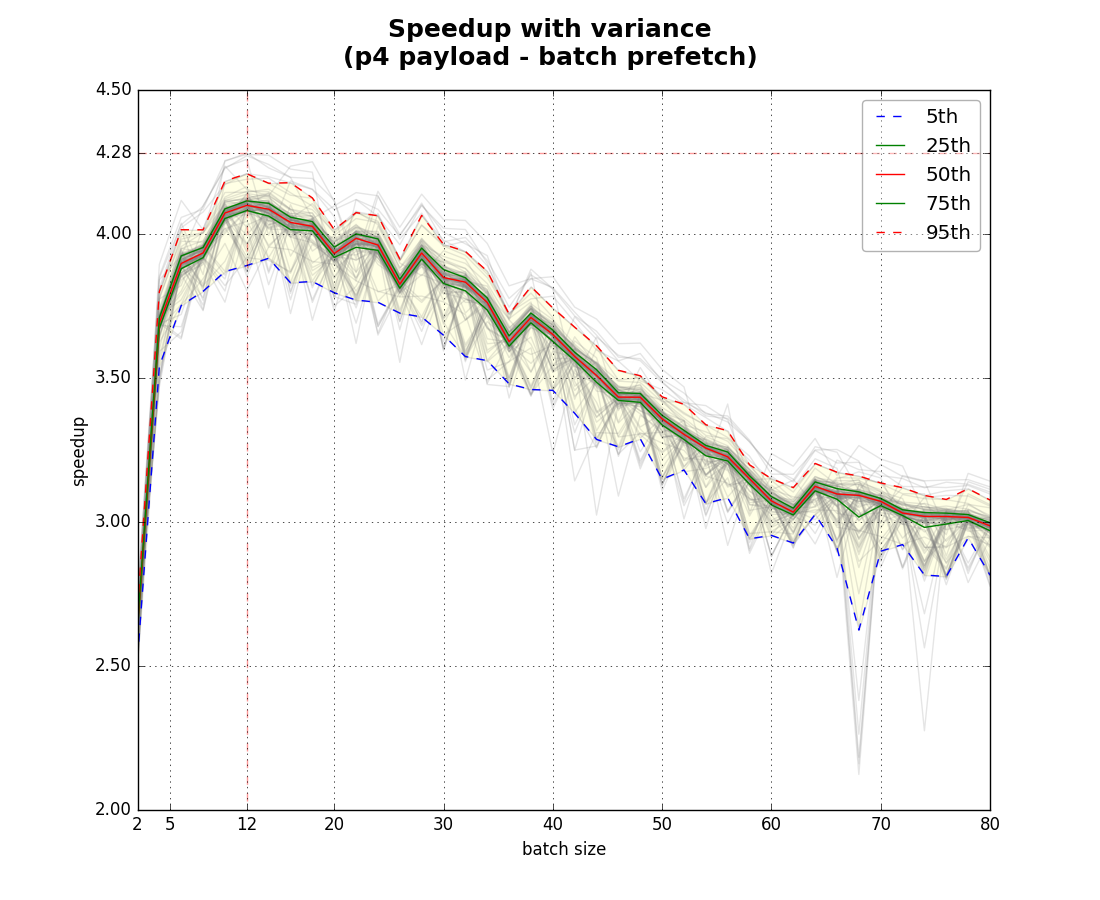
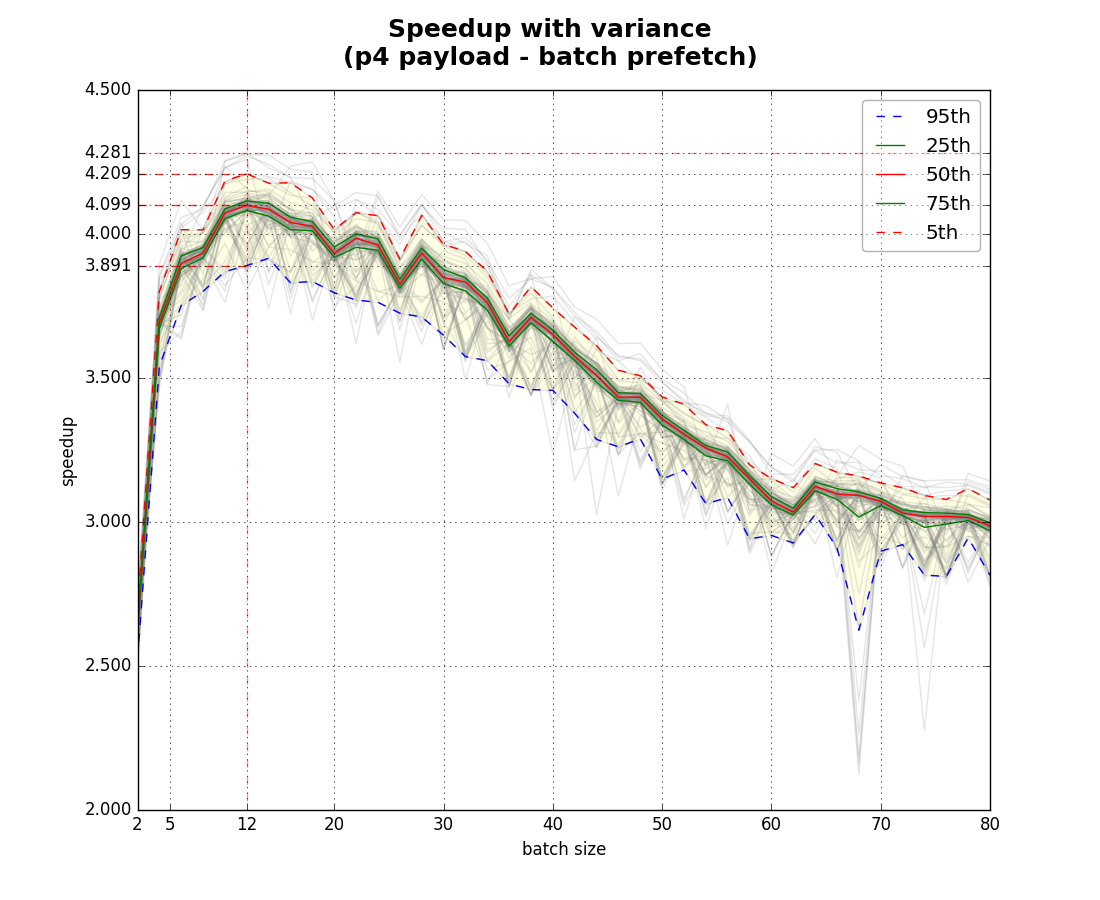
updates

diff --git a/analyze-results.py b/analyze-results.py
@@ -12,6 +12,12 @@ files = ['identity', 'math', 'p1',
          'p20', 'p24', 'p28',
          'p32', 'p64', 'p128']
 
+files2 = ['identity', 'math', 'p1',
+          'p2', 'p4', 'p5', 'p6',
+          'p7', 'p8', 'p9', 'p10', 'p12', 'p14', 'p16',
+          'p18', 'p20', 'p22', 'p24', 'p26', 'p28', 'p30',
+          'p32', 'p64', 'p128']
+
 # ... in that order
 algos = ['no batch', 'batch only', 'batch prefetch', 'locations batch']
 colors = ['red', 'blue', 'green', 'orange']
@@ -89,9 +95,9 @@ def plot_speedups_for_payloads():
     fig, axs = subplots(nrows=1, ncols=2)
     fig.set_figwidth(15)
     fig.set_size_inches(15, 9)
-    bests = np.zeros(shape=(len(files)-2, 4))
+    bests = np.zeros(shape=(len(files2)-2, 4))
     
-    for i, filename in enumerate(files):
+    for i, filename in enumerate(files2):
         if filename[0] != 'p':
             continue
         bests[i-2][0] = int(filename[1:])
@@ -213,21 +219,27 @@ def plot_speedups_for_p4_with_deviations():
     p75 = np.percentile(speedups, 75, axis=1)
     p05 = np.percentile(speedups, 5, axis=1)
     p95 = np.percentile(speedups, 95, axis=1)
-    ax.plot(x, p05, 'b--', label='5th')
+    ax.plot(x, p05, 'b--', label='95th')
     ax.plot(x, p25, color='g', label='25th')
     ax.plot(x, p50, color='r', label='50th')
     ax.plot(x, p75, color='g', label='75th')
-    ax.plot(x, p95, 'r--', label='95th')
+    ax.plot(x, p95, 'r--', label='5th')
     ax.fill_between(x, p05, p95, facecolor='yellow', alpha=0.1)
     ax.grid(True)
     ax.set_xlim(2,xlim)
     ax.set_ylim(2,)
     ax.legend(loc='upper right', fancybox=True, framealpha=0.3)
     ylim = ax.get_ylim()[1]
+    Mm = np.max(p95[5])
+    mm = np.min(p05[5])
+    med = p50[5]
+    ax.plot([2,12],[Mm,Mm],'r--', alpha=0.6) 
     ax.plot([12,12], [0,ylim], 'r--', alpha=0.4)
     ax.plot([2,xlim],[M,M], 'r--', alpha=0.4)
+    ax.plot([2,12],[mm,mm], 'r--', alpha=0.8)
+    ax.plot([2,12],[med,med], 'r--', alpha=0.8)
     ax.set_xticks([2,5,12,20,30,40,50,60,70,80])
-    ax.set_yticks([2,2.5,3.0,3.5,4.0,4.28,4.5])
+    ax.set_yticks([2,2.5,3.0,3.5,mm,4.0,med,Mm,M,4.5])
     ax.set_xlabel("batch size")
     ax.set_ylabel("speedup")
     #ax.set_title("Speedup variance")
@@ -244,8 +256,8 @@ def plot_speedups_for_p4_with_deviations():
             ax.plot(x, speedups50[:,i], color='g')
         p052 = np.percentile(speedups50, 5, axis=1)
         p952 = np.percentile(speedups50, 95, axis=1)
-        ax.plot(x, p052, color='b',label='5th')
-        ax.plot(x, p952, color='r', label='95th')
+        ax.plot(x, p052, color='r',label='5th')
+        ax.plot(x, p952, color='b', label='95th')
         ax.fill_between(x, p052, p952, facecolor='yellow', alpha=0.1)
         ax.legend(loc='lower right', fancybox=True, framealpha=0.3)
         #ax.hist(speedups.reshape(len(speedups)*100,1), bins=40)

diff --git a/batch_optimization.cpp b/batch_optimization.cpp
@@ -140,7 +140,7 @@ inline size_t hash64_2(size_t n, size_t seed1, size_t seed2) {
 // The various functions we want to use as "payload"
 typedef int (*PayloadFunction)(int);
 
-inline int id(int x) { return x; }
+
 
 /**
  * p1 is about 17 instructions in gcc 4.8.2
@@ -175,6 +175,7 @@ inline int p1(int x) {
 
 template <size_t n>
 inline int pn(int x) { for (size_t i = 0; i < n; ++i) x = p1(x); return x; }
+inline int id(int x) { return x; }
 inline int trig(int x) { return (int) ((int) ((int) cos(x) + sin(x)) / (1+log(x)));  }
 
 // The main testing function
@@ -192,10 +193,12 @@ long test(size_t M, size_t N, size_t n_reps, PayloadFunction F, int* data, Stats
   { // random accesses - no batching
     for (size_t k = 0; k < n_reps; ++k) {
       auto t1 = high_resolution_clock::now();
+
       for (size_t i = 0; i < N; ++i) {
         size_t pos = hash64_2(i, k, N) % M;
         certificate1 += F(data[pos]);
       }
+
       auto t2 = high_resolution_clock::now();
       times[k] = duration_cast<microseconds>(t2 - t1).count();
     }
@@ -208,6 +211,7 @@ long test(size_t M, size_t N, size_t n_reps, PayloadFunction F, int* data, Stats
       long certificate2 = 0;
       for (size_t k = 0; k < n_reps; ++k) {
         auto t1 = high_resolution_clock::now();
+
         size_t last = (N / batch_size) * batch_size;
         for (size_t i = 0; i < last; i += batch_size) {
           for (size_t j = 0; j < batch_size; ++j) {
@@ -222,6 +226,7 @@ long test(size_t M, size_t N, size_t n_reps, PayloadFunction F, int* data, Stats
           size_t pos = hash64_2(i, k, N) % M;
           certificate2 += F(data[pos]);
         }
+
         auto t2 = high_resolution_clock::now();
         times[k] = duration_cast<microseconds>(t2 - t1).count();
       }
@@ -281,6 +286,7 @@ long test(size_t M, size_t N, size_t n_reps, PayloadFunction F, int* data, Stats
       long certificate4 = 0;
       for (size_t k = 0; k < n_reps; ++k) {
         auto t1 = high_resolution_clock::now();
+
         for (size_t i = 0; i < N; ++i) {
           locations[i] = hash64_2(i, k, N) % M;
         }
@@ -302,6 +308,7 @@ long test(size_t M, size_t N, size_t n_reps, PayloadFunction F, int* data, Stats
           size_t pos = hash64_2(i, k, N) % M;
           certificate4 += F(data[pos]);
         }
+
         auto t2 = high_resolution_clock::now();
         times[k] = duration_cast<microseconds>(t2 - t1).count();
       }
